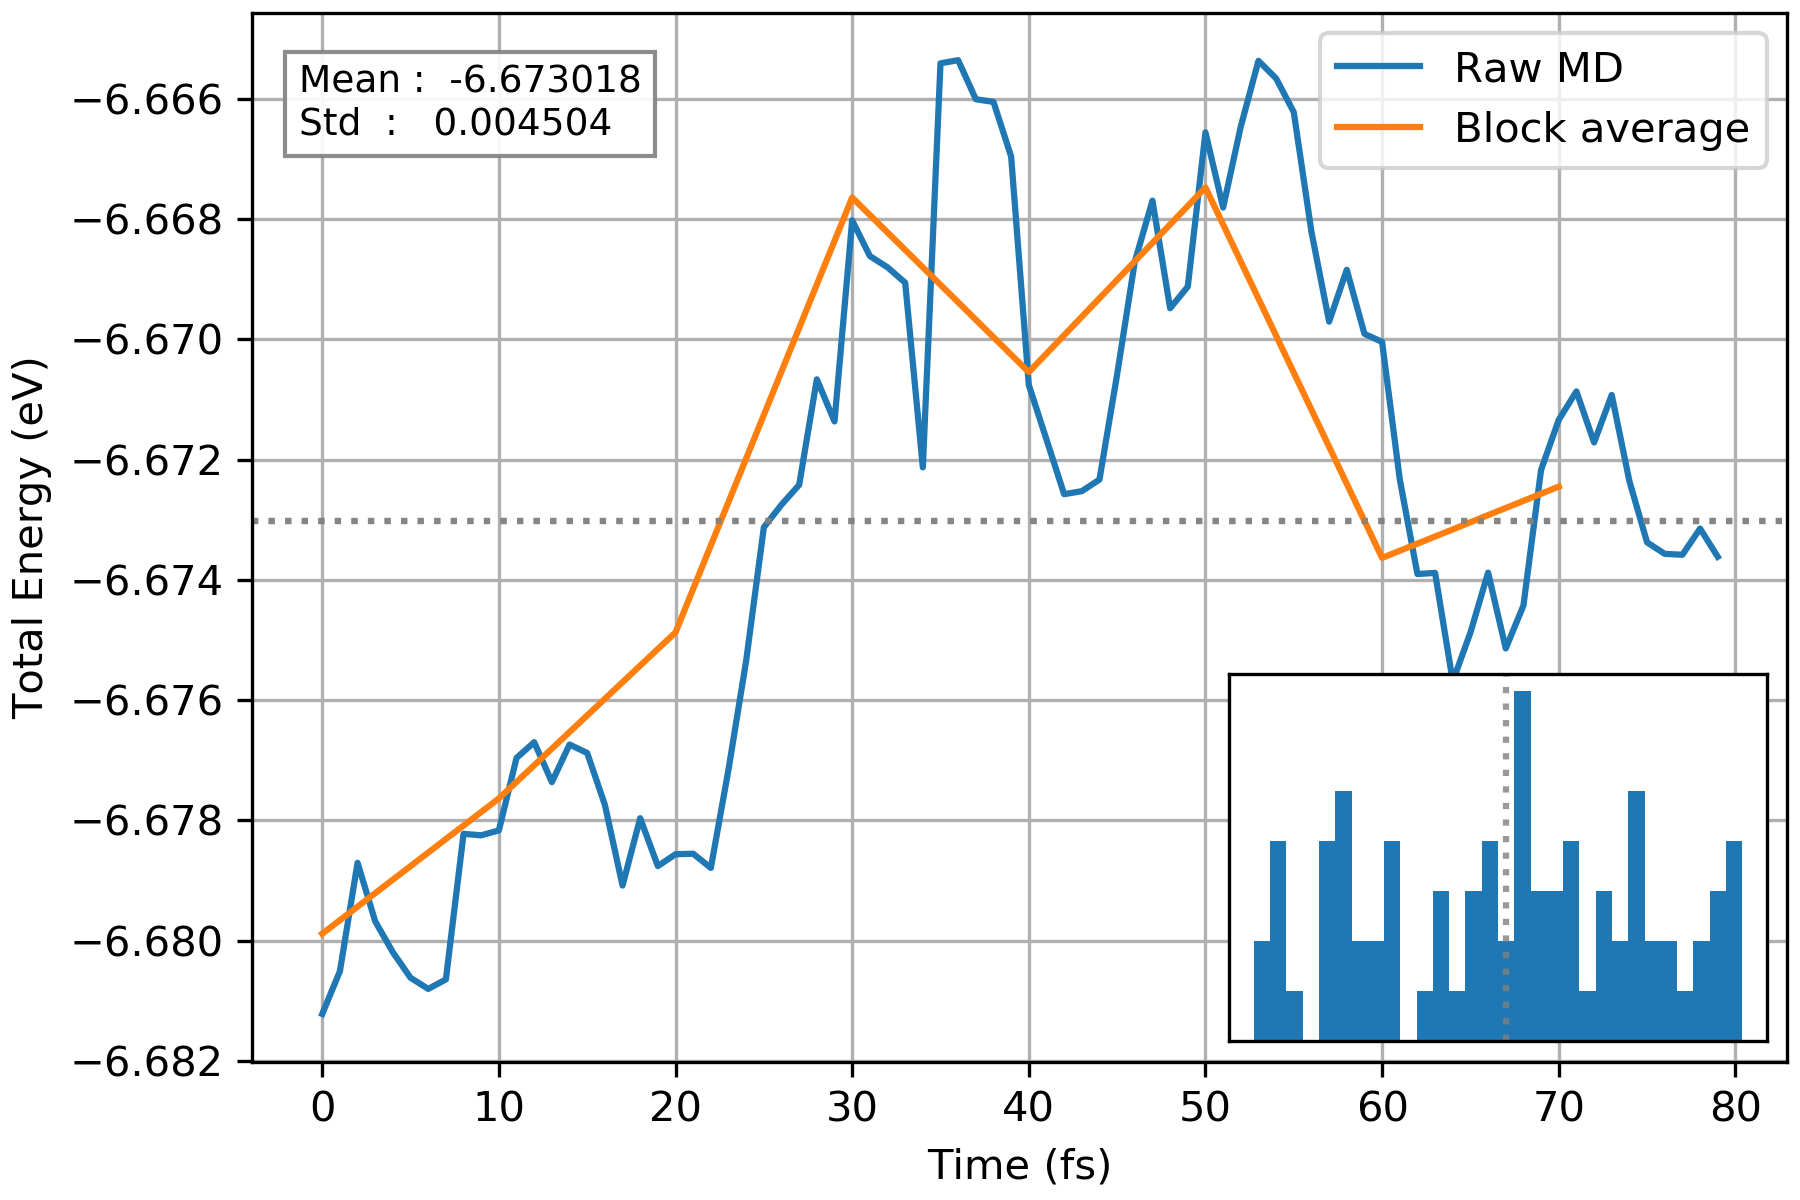
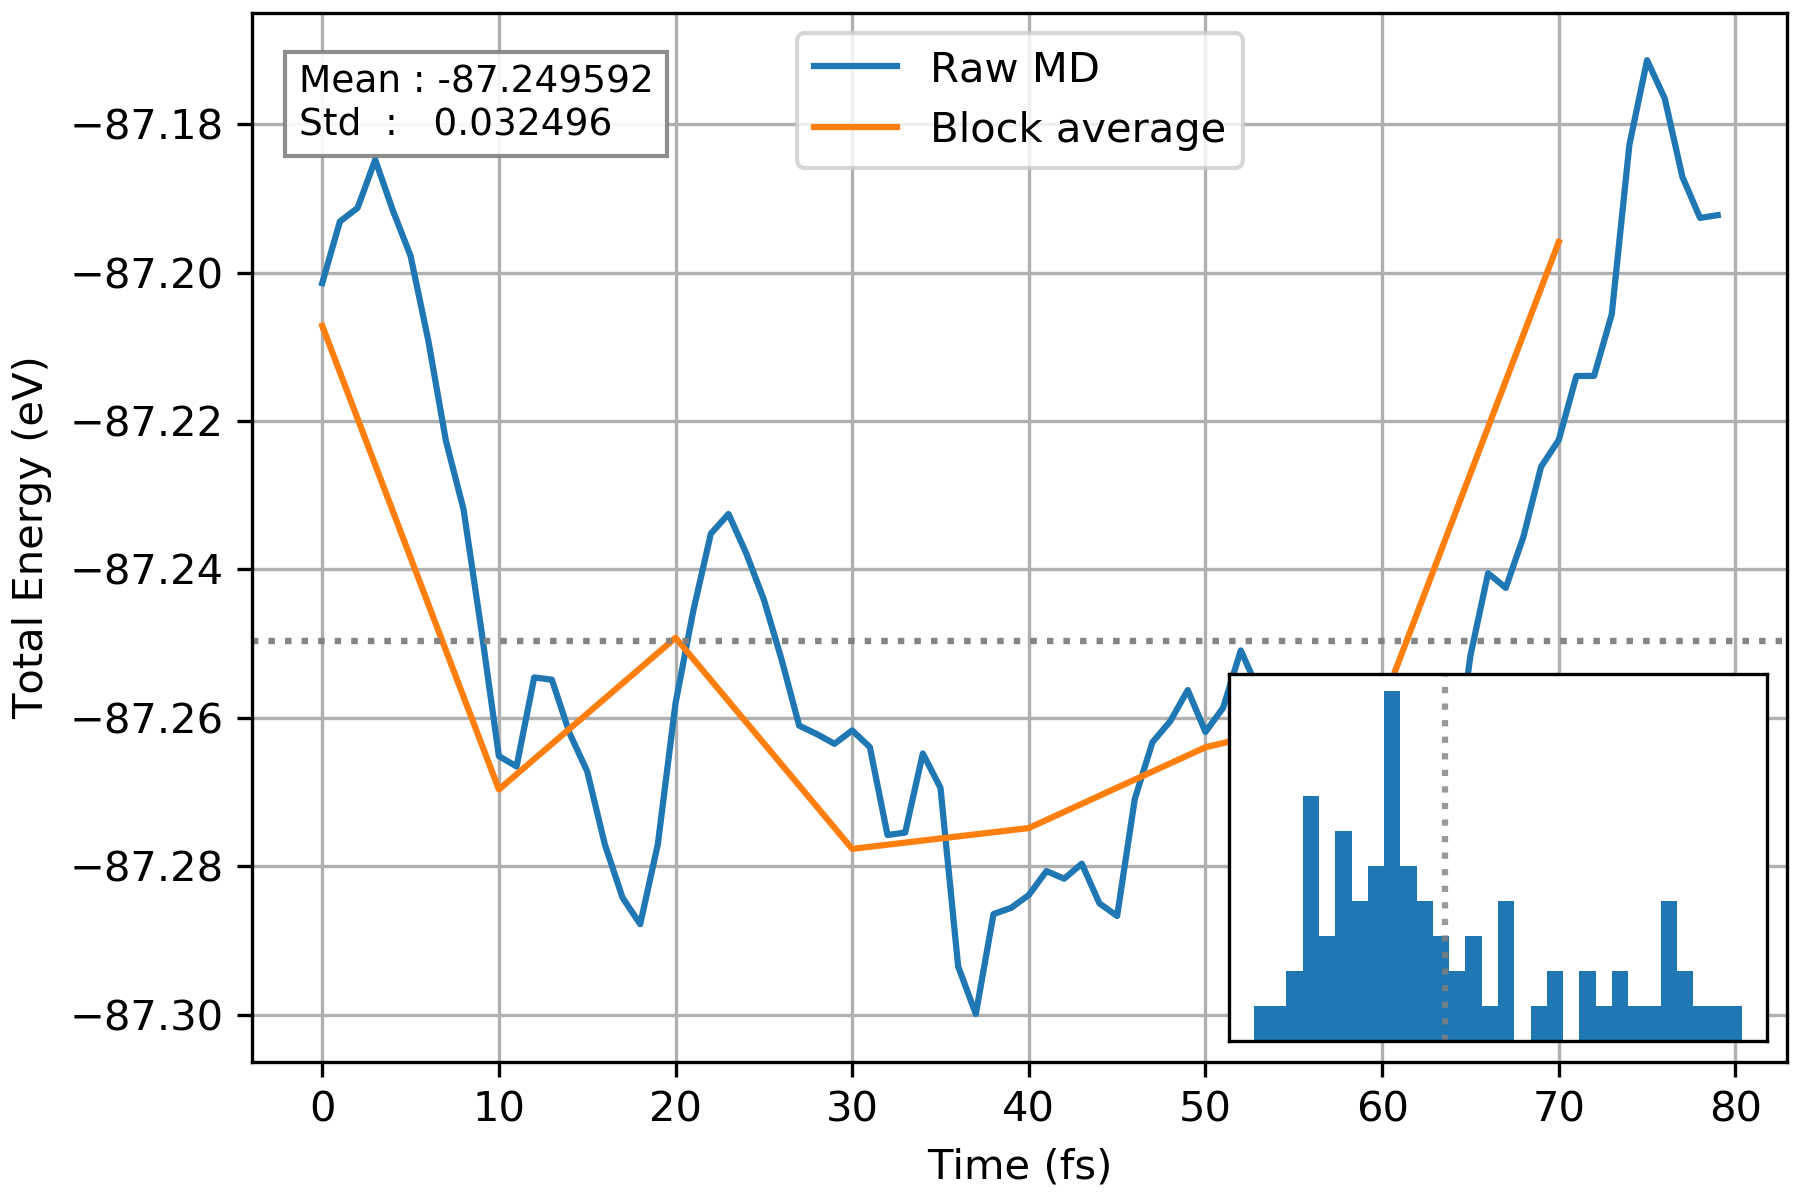
AIMD analysis: bugfix for OUTCAR parser. Test completed.

diff --git a/aimd_analysis/analysis/statistics.py b/aimd_analysis/analysis/statistics.py
@@ -20,9 +20,9 @@ def compute_statistics(profile: MDProfile) -> None:
     profile.stats["Ekin"] = _build_statistics(profile.Ekin)
     profile.stats["Etot"] = _build_statistics(profile.Etot)
     profile.stats["T_md"] = _build_statistics(profile.T_md)
+    profile.stats["P_md"] = _build_statistics(profile.P_md)
 
-    if profile.has_pressure:
-        profile.stats["P_md"] = _build_statistics(profile.P_md)
+    if profile.has_variable_cell:
         profile.stats["V_md"] = _build_statistics(profile.V_md)
         profile.stats["lat_a"] = _build_statistics(profile.lat_a)
         profile.stats["lat_b"] = _build_statistics(profile.lat_b)
@@ -80,10 +80,9 @@ def summary(profile: MDProfile, verbose: bool = False) -> None:
     _print_statistics("Kinetic Energy (eV)", profile.stats["Ekin"])
     _print_statistics("Total Energy (eV)", profile.stats["Etot"])
     _print_statistics("Temperature (K)", profile.stats["T_md"])
+    _print_statistics("Pressure (kBar)", profile.stats["P_md"])
 
-    if profile.has_pressure:
-        print()
-        _print_statistics("Pressure (kBar)", profile.stats["P_md"])
+    if profile.has_variable_cell:
         _print_statistics("Volume (A^3)", profile.stats["V_md"])
         _print_statistics("a (A)", profile.stats["lat_a"])
         _print_statistics("b (A)", profile.stats["lat_b"])
@@ -96,6 +95,12 @@ def summary(profile: MDProfile, verbose: bool = False) -> None:
 
 
 def _print_statistics(title: str, stats: QuantityStatistics) -> None:
+
+    if stats is None:
+        print(f"{title}")
+        print("    Not available")
+        print()
+        return
 
     print(title)
     print(f"    Mean : {stats.mean:12.6f}")
@@ -119,8 +124,8 @@ def slice_profile(
         Ekin=profile.Ekin[start:stop],
         Etot=profile.Etot[start:stop],
         T_md=profile.T_md[start:stop],
-
         P_md=_slice_optional(profile.P_md, start, stop),
+
         V_md=_slice_optional(profile.V_md, start, stop),
         lat_a=_slice_optional(profile.lat_a, start, stop),
         lat_b=_slice_optional(profile.lat_b, start, stop),
@@ -165,8 +170,8 @@ def block_average(
         Ekin=_block_average_array(profile.Ekin, block_size),
         Etot=_block_average_array(profile.Etot, block_size),
         T_md=_block_average_array(profile.T_md, block_size),
-
         P_md=_block_average_array(profile.P_md, block_size),
+
         V_md=_block_average_array(profile.V_md, block_size),
         lat_a=_block_average_array(profile.lat_a, block_size),
         lat_b=_block_average_array(profile.lat_b, block_size),

diff --git a/aimd_analysis/examples/example_histogram.py b/aimd_analysis/examples/example_histogram.py
@@ -1,8 +1,7 @@
 from pathlib import Path
 import matplotlib.pyplot as plt
 
-from aimd_analysis.reader.report_pureHO import read_report_pureHO
-from aimd_analysis.reader.incar import read_incar
+from aimd_analysis.reader.outcar import read_outcar
 from aimd_analysis.plotting.histogram import plot_histogram
 from aimd_analysis.analysis.statistics import (
     compute_statistics,
@@ -14,13 +13,9 @@ from aimd_analysis.analysis.statistics import (
 
 base_dir = Path(__file__).resolve().parent
 
-report = base_dir.parent / "tests" / "REPORT_pureHO"
-incar = base_dir.parent / "tests" / "INCAR_pureHO"
+outcar = base_dir.parent / "tests" / "OUTCAR_npt"
 
-profile = read_report_pureHO(report)
-incar = read_incar(incar)
-
-profile.dt = incar.potim
+profile = read_outcar(outcar)
 
 compute_statistics(profile)
 

diff --git a/aimd_analysis/examples/example_overlay.py b/aimd_analysis/examples/example_overlay.py
@@ -1,8 +1,7 @@
 from pathlib import Path
 import matplotlib.pyplot as plt
 
-from aimd_analysis.reader.report_pureHO import read_report_pureHO
-from aimd_analysis.reader.incar import read_incar
+from aimd_analysis.reader.outcar import read_outcar
 from aimd_analysis.plotting.profile import plot_profile
 from aimd_analysis.analysis.statistics import (
     compute_statistics,
@@ -28,13 +27,9 @@ base_dir = Path(__file__).resolve().parent
 outfile = base_dir / "profile_overlay.png"
 #outfile = base_dir / "profile_overlay_not_parent.png"
 
-report = base_dir.parent / "tests" / "REPORT_pureHO"
-incar = base_dir.parent / "tests" / "INCAR_pureHO"
+outcar = base_dir.parent / "tests" / "OUTCAR_npt"
 
-profile = read_report_pureHO(report)
-incar = read_incar(incar)
-
-profile.dt = incar.potim
+profile = read_outcar(outcar)
 
 # ============================================================
 # Slice & Block-average

diff --git a/aimd_analysis/examples/example_plot.py b/aimd_analysis/examples/example_plot.py
@@ -1,8 +1,7 @@
 from pathlib import Path
 import matplotlib.pyplot as plt
 
-from aimd_analysis.reader.report_pureHO import read_report_pureHO
-from aimd_analysis.reader.incar import read_incar
+from aimd_analysis.reader.outcar import read_outcar
 from aimd_analysis.plotting.profile import plot_profile
 from aimd_analysis.analysis.statistics import (
     compute_statistics,
@@ -15,13 +14,9 @@ from aimd_analysis.analysis.statistics import (
 
 base_dir = Path(__file__).resolve().parent
 
-report = base_dir.parent / "tests" / "REPORT_pureHO"
-incar = base_dir.parent / "tests" / "INCAR_pureHO"
+outcar = base_dir.parent / "tests" / "OUTCAR_npt"
 
-profile = read_report_pureHO(report)
-incar = read_incar(incar)
-
-profile.dt = incar.potim
+profile = read_outcar(outcar)
 
 compute_statistics(profile)
 

diff --git a/aimd_analysis/examples/example_savefig.py b/aimd_analysis/examples/example_savefig.py
@@ -1,8 +1,7 @@
 from pathlib import Path
 import matplotlib.pyplot as plt
 
-from aimd_analysis.reader.report_pureHO import read_report_pureHO
-from aimd_analysis.reader.incar import read_incar
+from aimd_analysis.reader.outcar import read_outcar
 from aimd_analysis.plotting.profile import plot_profile
 from aimd_analysis.analysis.statistics import (
     compute_statistics,
@@ -16,13 +15,9 @@ base_dir = Path(__file__).resolve().parent
 
 outfile = base_dir / "profile.png"
 
-report = base_dir.parent / "tests" / "REPORT_pureHO"
-incar = base_dir.parent / "tests" / "INCAR_pureHO"
+outcar = base_dir.parent / "tests" / "OUTCAR_npt"
 
-profile = read_report_pureHO(report)
-incar = read_incar(incar)
-
-profile.dt = incar.potim
+profile = read_outcar(outcar)
 
 compute_statistics(profile)
 

diff --git a/aimd_analysis/examples/example_statistics.py b/aimd_analysis/examples/example_statistics.py
@@ -2,7 +2,7 @@
 example_statistics.py
 
 Example:
-    - Read OUTCAR
+    - Read OUTCAR: regardless of NVT or NPT
     - Print MD summary
     - Slice MD trajectory
     - Block-average MD trajectory
@@ -21,13 +21,14 @@ from pathlib import Path
 
 base_dir = Path(__file__).resolve().parent
 
-outcar= base_dir.parent / "tests" / "OUTCAR_nvt"
+#outcar= base_dir.parent / "tests" / "OUTCAR_nvt"
+outcar= base_dir.parent / "tests" / "OUTCAR_npt"
 
 # ==========================================================
 # Read REPORT
 # ==========================================================
 
-profile = read_outcar(outcar, verbose=True)
+profile = read_outcar(outcar)
 
 # ==========================================================
 # Raw MD profile

diff --git a/aimd_analysis/README.md b/aimd_analysis/README.md
@@ -5,13 +5,13 @@ Geleral analysis tools for VASP molecular dynamics simulations.
 ## Features
 
 - [X] MD profile data class
-- [ ] Reading OUTCAR file (General case)
+- [X] Reading OUTCAR file (General case)
 - [X] Reading INCAR file (Only POTIM tag!!)
 - [X] Reading REPORT file (Special case: pure HO)
 - [X] Statistical analysis
 - [X] Time profile & histogram plotting
+- [ ] Geometry calculation: now, just for lattice parameters!
 - [ ] else??
 
-## ToDo list: outcar.py (OUTCAR file parser)
-- [ ] OUTCAR file parser, general case (NVT)
-- [ ] OUTCAR file parser, general case (NPT)
+## ToDo list: geometry.py (geometry calculations)
+- [ ] lattice paramters